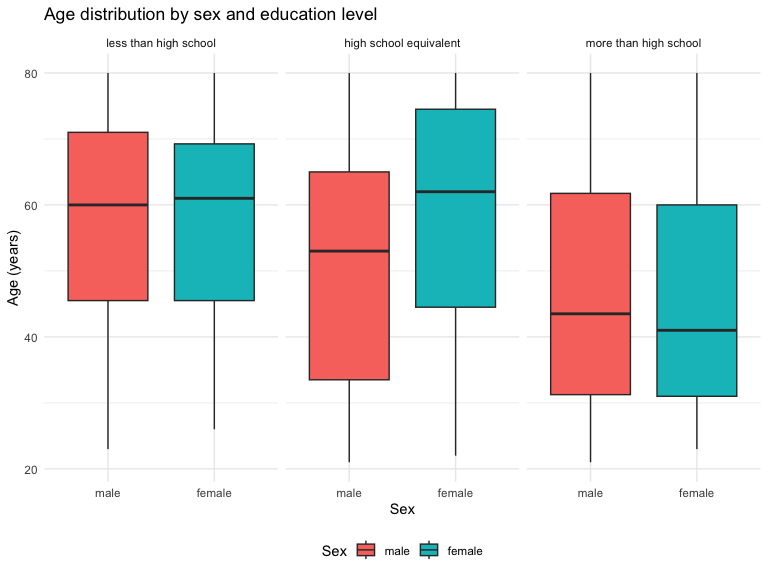
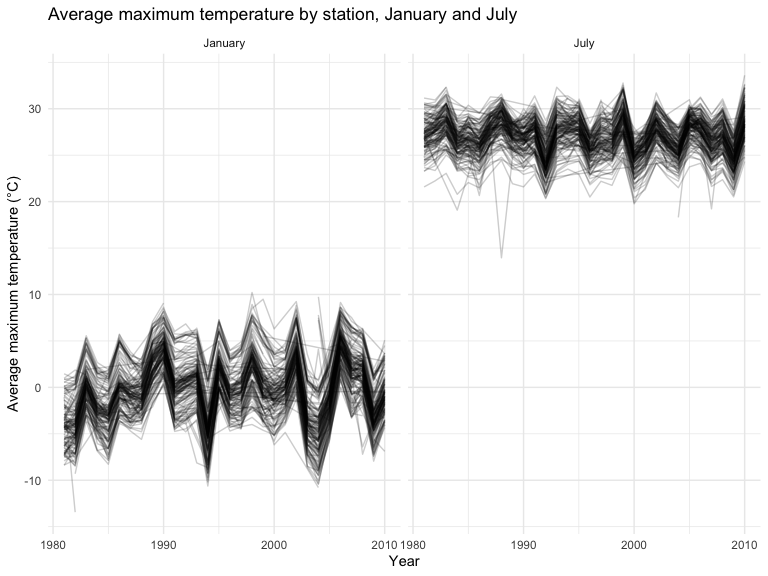
Add Problem 1

diff --git a/p8105_hw3_igg2113.md b/p8105_hw3_igg2113.md
@@ -6,11 +6,132 @@ Isabella Gerlitz
 ``` r
 library(tidyverse)
 library(p8105.datasets)
+library(patchwork)
 
 theme_set(theme_minimal() + theme(legend.position = "bottom"))
 ```
 
 ## Problem 1
+
+``` r
+data("ny_noaa")
+
+dim(ny_noaa)
+## [1] 2595176       7
+glimpse(ny_noaa)
+## Rows: 2,595,176
+## Columns: 7
+## $ id   <chr> "US1NYAB0001", "US1NYAB0001", "US1NYAB0001", "US1NYAB0001", "US1N…
+## $ date <date> 2007-11-01, 2007-11-02, 2007-11-03, 2007-11-04, 2007-11-05, 2007…
+## $ prcp <int> NA, NA, NA, NA, NA, NA, NA, NA, NA, NA, NA, NA, NA, NA, NA, NA, 3…
+## $ snow <int> NA, NA, NA, NA, NA, NA, NA, NA, NA, NA, NA, NA, NA, NA, NA, NA, 3…
+## $ snwd <int> NA, NA, NA, NA, NA, NA, NA, NA, NA, NA, NA, NA, NA, NA, NA, NA, 0…
+## $ tmax <chr> NA, NA, NA, NA, NA, NA, NA, NA, NA, NA, NA, NA, NA, NA, NA, NA, N…
+## $ tmin <chr> NA, NA, NA, NA, NA, NA, NA, NA, NA, NA, NA, NA, NA, NA, NA, NA, N…
+
+ny_noaa |> 
+  summarize(across(everything(), ~ mean(is.na(.x))))
+## # A tibble: 1 × 7
+##      id  date   prcp  snow  snwd  tmax  tmin
+##   <dbl> <dbl>  <dbl> <dbl> <dbl> <dbl> <dbl>
+## 1     0     0 0.0562 0.147 0.228 0.437 0.437
+```
+
+The dataset has 2,595,176 observations and 7 variables. Every row
+represents one weather station on one day. The variables are `id`
+(station), `date`, `prcp` (precipitation), `snow` (snowfall), `snwd`
+(snow depth), `tmax` and `tmin` (maximum and minimum temperature). There
+is a lot of missing data because many of the stations don’t record each
+variable every day.
+
+``` r
+noaa_df = 
+  ny_noaa |> 
+  mutate(
+    year = year(date),
+    month = month(date),
+    day = day(date),
+    tmax = as.numeric(tmax) / 10,
+    tmin = as.numeric(tmin) / 10,
+    prcp = prcp / 10
+  )
+
+noaa_df |> 
+  count(snow, sort = TRUE) |> 
+  slice_head(n = 5)
+## # A tibble: 5 × 2
+##    snow       n
+##   <int>   <int>
+## 1     0 2008508
+## 2    NA  381221
+## 3    25   31022
+## 4    13   23095
+## 5    51   18274
+```
+
+For snowfall the most commonly observed values are 0, NA, 25, 13, 51.
+These numbers could make sense because they are inches converted into
+mm.
+
+``` r
+noaa_df |> 
+  filter(month %in% c(1, 7)) |> 
+  group_by(id, year, month) |> 
+  summarize(mean_tmax = mean(tmax, na.rm = TRUE), .groups = "drop") |> 
+  drop_na(mean_tmax) |> 
+  mutate(month = factor(month, levels = c(1, 7), labels = c("January", "July"))) |> 
+  ggplot(aes(x = year, y = mean_tmax, group = id)) +
+  geom_line(alpha = 0.2) +
+  facet_grid(. ~ month) +
+  labs(
+    title = "Average maximum temperature by station, January and July",
+    x = "Year",
+    y = "Average maximum temperature (°C)"
+  )
+```
+
+<img src="p8105_hw3_igg2113_files/figure-gfm/unnamed-chunk-3-1.png" alt="" width="90%" />
+
+The average maximum temperatures are much lower in January (roughly
+-10°C to 10°C) than in July (roughly 22°C to 32°C). Stations tend to
+rise and fall in temperature together from year to year. There are a few
+outliers, such as one very cold January station in the early 1980s and
+one very cold July station in the late 1980s.
+
+``` r
+temp_p = 
+  noaa_df |> 
+  ggplot(aes(x = tmin, y = tmax)) +
+  geom_bin2d() +
+  labs(
+    title = "Daily maximum vs minimum temperature",
+    x = "Minimum temperature (°C)",
+    y = "Maximum temperature (°C)"
+  )
+
+snow_p = 
+  noaa_df |> 
+  filter(snow > 0, snow < 100) |> 
+  ggplot(aes(x = factor(year), y = snow)) +
+  geom_boxplot() +
+  theme(axis.text.x = element_text(angle = 90, vjust = 0.5)) +
+  labs(
+    title = "Snowfall between 0 and 100 mm by year",
+    x = "Year",
+    y = "Snowfall (mm)"
+  )
+
+temp_p / snow_p
+## Warning: Removed 1136276 rows containing non-finite outside the scale range
+## (`stat_bin2d()`).
+```
+
+<img src="p8105_hw3_igg2113_files/figure-gfm/unnamed-chunk-4-1.png" alt="" width="90%" />
+
+Max and min temperatures are positively correlated with most
+observations occurring between 0 and 25 deg. C. There are a few
+extremely high observations. Snowfall has a similar distribution across
+years, especially before 1998.
 
 ## Problem 2
 
@@ -81,7 +202,8 @@ nhanes_df |>
   )
 ```
 
-<img src="p8105_hw3_igg2113_files/figure-gfm/unnamed-chunk-3-1.png" alt="" width="90%" />
+<img src="p8105_hw3_igg2113_files/figure-gfm/unnamed-chunk-7-1.png" alt="" width="90%" />
+
 High school equivalent females are older than the males. In more than
 high school, both males and females are younger. In less than high
 school, the age distribution for males and females look similar.
@@ -105,7 +227,8 @@ total_df |>
   )
 ```
 
-<img src="p8105_hw3_igg2113_files/figure-gfm/unnamed-chunk-4-1.png" alt="" width="90%" />
+<img src="p8105_hw3_igg2113_files/figure-gfm/unnamed-chunk-8-1.png" alt="" width="90%" />
+
 Across age groups, total activity declines with age. The trend line for
 men and women in the less than high school group are similar. In High
 school equivalent women are more active than men.
@@ -131,11 +254,13 @@ nhanes_df |>
   )
 ```
 
-<img src="p8105_hw3_igg2113_files/figure-gfm/unnamed-chunk-5-1.png" alt="" width="90%" />
+<img src="p8105_hw3_igg2113_files/figure-gfm/unnamed-chunk-9-1.png" alt="" width="90%" />
+
 Activity is lowest overnight (between minutes 0 to 500) for all three
 groups. For all three groups activity rises until midday then decreases
-into the evening. Men and women appear to follow the same trends. \##
-Problem 3
+into the evening. Men and women appear to follow the same trends.
+
+## Problem 3
 
 ``` r
 citi_df = 
@@ -232,7 +357,8 @@ citi_df |>
   )
 ```
 
-<img src="p8105_hw3_igg2113_files/figure-gfm/unnamed-chunk-9-1.png" alt="" width="90%" />
+<img src="p8105_hw3_igg2113_files/figure-gfm/unnamed-chunk-13-1.png" alt="" width="90%" />
+
 July has longer median ride duration than January in both years. There
 was overall longer rides in 2020, possibly due to the pandemic. Weekend
 rides were longer across groups except for Sundays in January 2024.
@@ -252,7 +378,8 @@ citi_df |>
   )
 ```
 
-<img src="p8105_hw3_igg2113_files/figure-gfm/unnamed-chunk-10-1.png" alt="" width="90%" />
+<img src="p8105_hw3_igg2113_files/figure-gfm/unnamed-chunk-14-1.png" alt="" width="90%" />
+
 Casual riders took longer rides than members in both months. Casual
 riders bike longer on classic bikes vs. the e-bikes. With members its
 much closer. Rides are longer in July than January. These data had many
